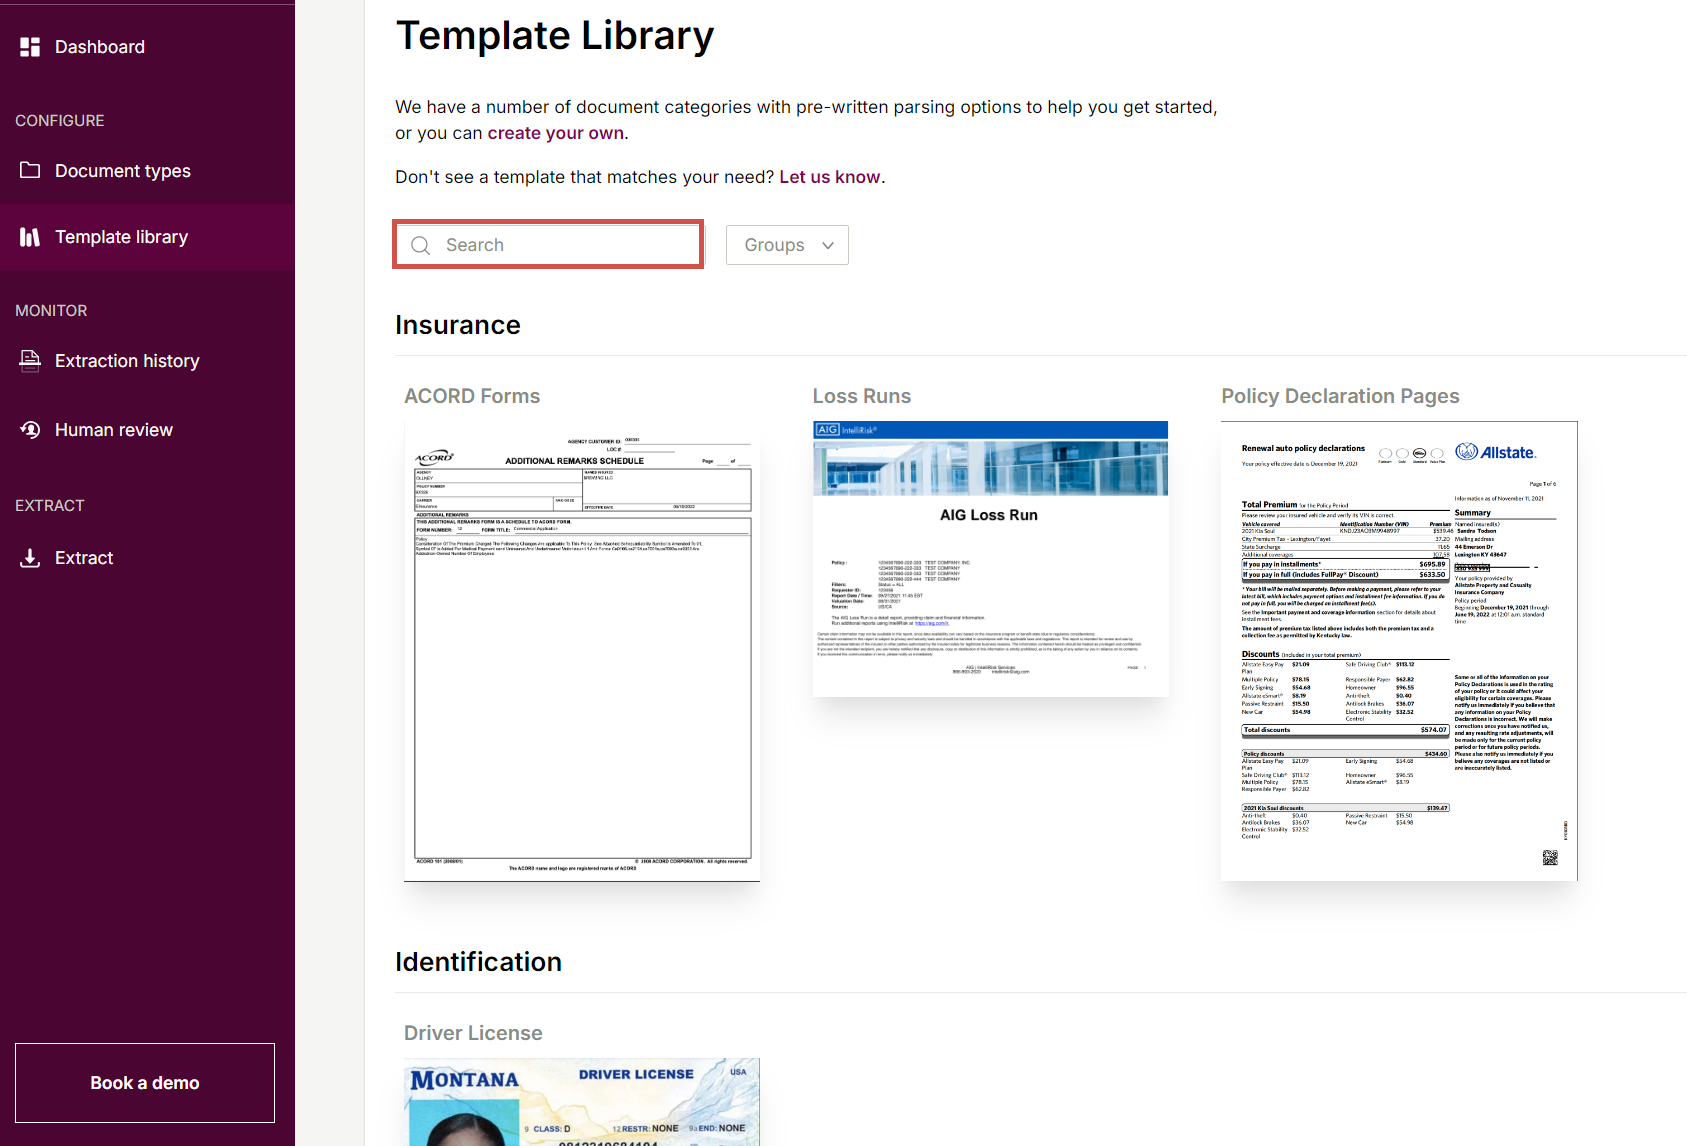
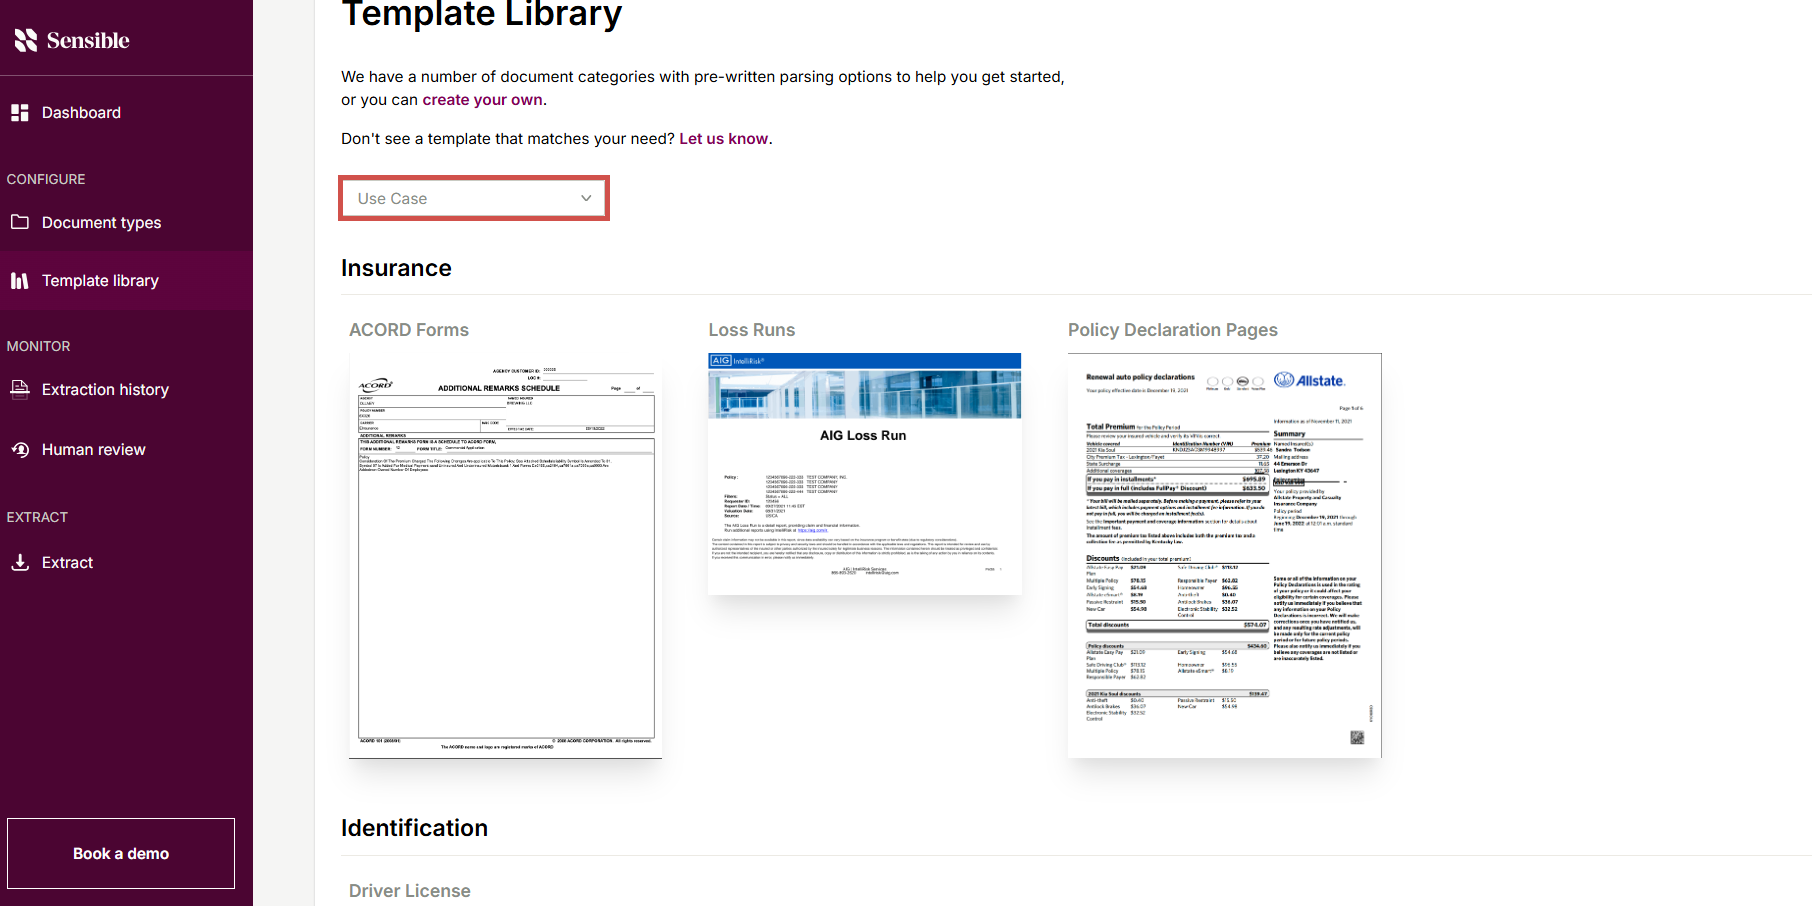
library

diff --git a/readme-sync/v0/data-extraction/2000 - library-quickstart.md b/readme-sync/v0/data-extraction/2000 - library-quickstart.md
@@ -27,7 +27,7 @@ If you want to extract from any of the following document types, you can get sta
 
 To add supported document types to your Sensible account:
 
-1. Click the **Configuration library** tab, and browse or search for your document type. Click **group** to view document types by industry:
+1. Click the **Template library** tab, and browse for your document type. Click **Use case** to view document types by industry:
 ![Click to enlarge](https://raw.githubusercontent.com/sensible-hq/sensible-docs/main/readme-sync/assets/v0/images/final/library_1.png)
 2. Click the document type you want to extract from. Sensible displays the specific forms it supports in the document type.
 3. Click **Clone to account**. Sensible displays the cloned document type and its form-specific configs in the **Document types** tab.
